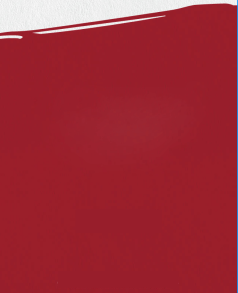
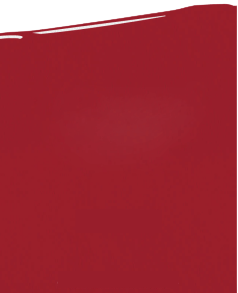
mnor fixes

diff --git a/src/components/Win.css b/src/components/Win.css
@@ -7,6 +7,14 @@
     line-height: 0px;
     padding-top: 0px;
 }
+.addBg{
+  z-index: -5;
+  background-image: url("/public/images/footerBg.png");
+  -webkit-background-size: cover;
+  -moz-background-size: cover;
+  -o-background-size: cover;
+  background-size: cover;
+}
 
 .next{
   position: relative;
@@ -19,14 +27,8 @@
   color: white;
   text-transform: capitalize;
   font-family: 'Roboto Condensed', sans-serif;
- 
 }
 .next::after{
-  content: '';
-  background-color:#9C102A;
-  position: absolute;
-  inset: 0;
-  transform: skewY(-5deg);
   z-index: -1;
 }
 .right {

diff --git a/src/components/Win.jsx b/src/components/Win.jsx
@@ -45,6 +45,7 @@ const Lose = () => {
             <i>CONGRATULATIONS</i>
           </h1>
         </div>
+        <div className="addBg">
         <div className="next">
           <div className="bottom1">
             <div className="loseImage">
@@ -78,6 +79,7 @@ const Lose = () => {
 
             </div>
           </div>
+        </div>
         </div>
       </div>
     </>
